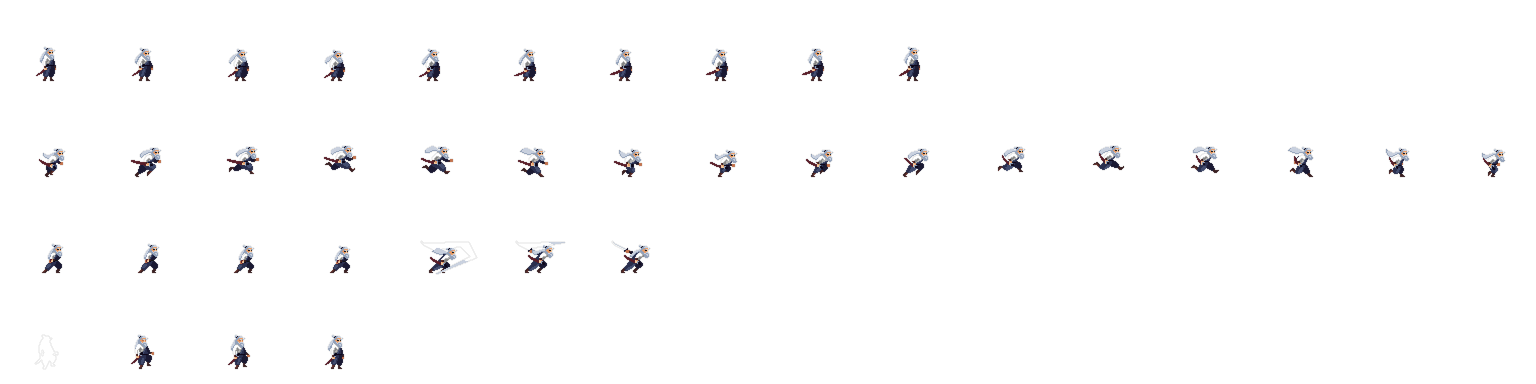
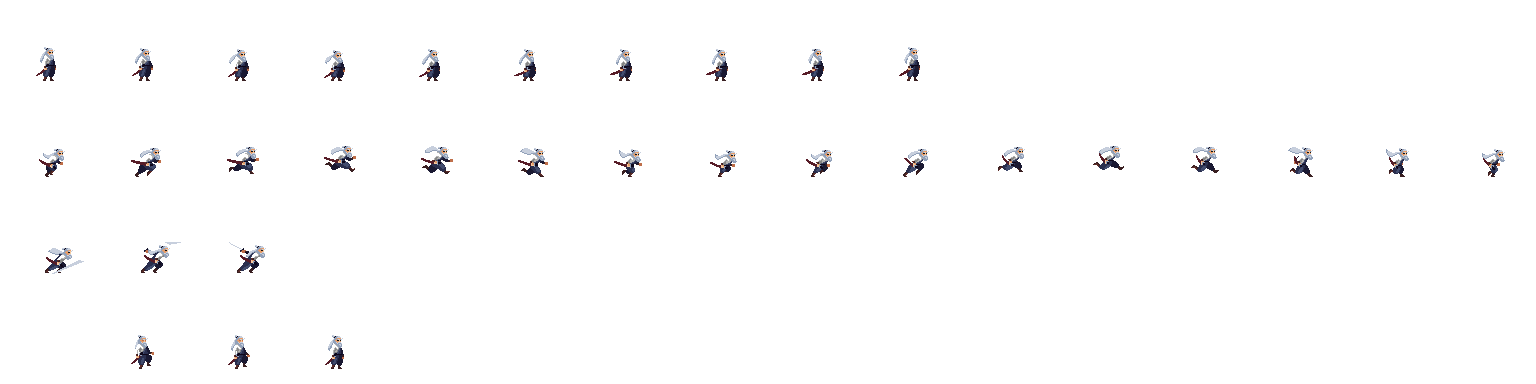
Улучшение анимации, исправление багов

diff --git a/gameScene.py b/gameScene.py
@@ -158,7 +158,7 @@ class GameScene(QGraphicsScene):
         coin_txt.setPos(600 - 20 - coin_txt.boundingRect().width(), 20)
 
     def generate_hero(self):
-        self.hero = AnimatedSprite("source/hero/hero.png", 96, 96, 4, [10, 16, 7, 4])
+        self.hero = AnimatedSprite("source/hero/hero.png", 96, 96, 4, [10, 16, 3, 4])
         self.hero.set_animation(0, force_interrupt=True)
         self.arena_group.addToGroup(self.hero)
         #self.hero_x = (self.arena_back.boundingRect().width() - 96) // 2
@@ -187,7 +187,7 @@ class GameScene(QGraphicsScene):
     def keyPressEvent(self, event):
         if event.key() in self.keys_pressed:
             if self.hero != None and self.hero.current_animation == 0:
-                self.hero.set_animation(1, force_interrupt=True)
+                self.hero.set_animation(1, force_interrupt=False)
             self.keys_pressed[event.key()] = True
         super().keyPressEvent(event)
     
@@ -196,7 +196,7 @@ class GameScene(QGraphicsScene):
             self.keys_pressed[event.key()] = False
         if all(f is False for f in self.keys_pressed.values()):
             if self.hero != None:
-                self.hero.set_animation(0, force_interrupt=True)
+                self.hero.set_animation(0, force_interrupt=False)
         super().keyReleaseEvent(event)
 
     def render_hero(self):
@@ -315,7 +315,7 @@ class GameScene(QGraphicsScene):
             e_v = (x - hero_x, y - hero_y)
             cos_value = (h_v[0] * e_v[0] + h_v[1] * e_v[1]) / ((h_v[0] ** 2 + h_v[1] ** 2) * (e_v[0] ** 2 + e_v[1] ** 2)) ** 0.5
             arccos = math.acos(cos_value)
-            if arccos < 0.5 and (e_v[0] ** 2 + e_v[1] ** 2) ** 0.5 < 70:
+            if arccos < 0.5 and (e_v[0] ** 2 + e_v[1] ** 2) ** 0.5 < 100:
                 enemy.get_damage(int(self.stats["damage"]))
                 if enemy.is_dead():
                     enemy.die()
@@ -333,7 +333,6 @@ class GameScene(QGraphicsScene):
         e_v = (x - hero_x, y - hero_y)
         if (e_v[0] ** 2 + e_v[1] ** 2) ** 0.5 < 40:
             enemy.set_animation(2, loop=False)
-            self.hero.set_animation(3, loop=False)
             self.current_health -= 1
             if self.current_health <= 0:
                 self.end_game()

diff --git a/animatedSprite.py b/animatedSprite.py
@@ -45,7 +45,7 @@ class AnimatedSprite(QGraphicsPixmapItem):
                 animation_frames.append(frame)
             self.frames.append(animation_frames)
 
-    def set_animation(self, animation_index, loop=True, force_interrupt=True):
+    def set_animation(self, animation_index, loop=True, force_interrupt=False):
         """
         Переключает анимацию с приоритетом.
         Параметры:
